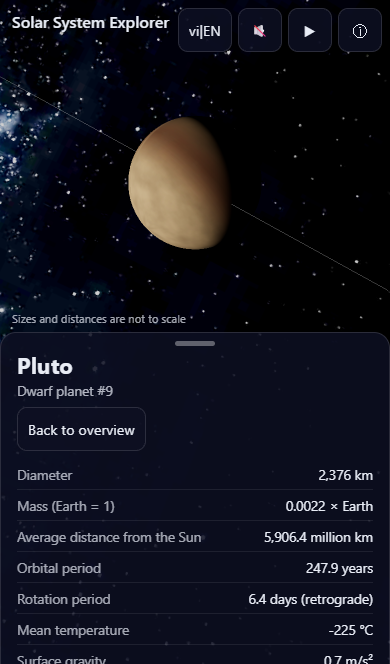
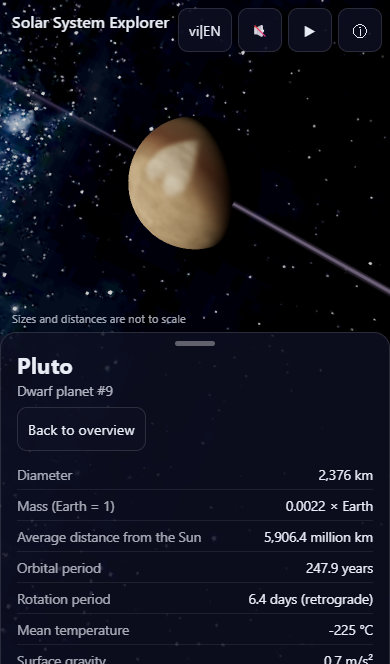
feat(t35): tune orbit ribbon look and record perf

diff --git a/tests/visual/screenshots.spec.ts b/tests/visual/screenshots.spec.ts
@@ -57,6 +57,23 @@ test('screenshots for the visual review', async ({ page }, info) => {
   await boot(page, 'en');
   await page.waitForTimeout(2_000);
   await shot('overview');
+  if (!mobile) {
+    // Low angle: drag the canvas vertically so the orbits are seen almost edge-on.
+    const box = (await page.locator('canvas').first().boundingBox())!;
+    const cx = box.x + box.width / 2;
+    const cy = box.y + box.height / 2;
+    await page.mouse.move(cx, cy);
+    await page.mouse.down();
+    // camera-controls maps a full canvas height to 360 degrees, so about 45 px tilts the view
+    // from 60 to about 82 degrees from the zenith; more would clamp to a straight top or bottom view.
+    await page.mouse.move(cx, cy - 45, { steps: 10 });
+    await page.mouse.up();
+    // Let the damped camera settle (frame-bound on software GL).
+    await page.waitForTimeout(8_000);
+    await shot('overview-low-angle');
+    await page.evaluate(() => (window as unknown as AppWindow).__app.overview());
+    await page.waitForTimeout(5_000);
+  }
   for (const id of ['sun', 'earth', 'saturn', 'jupiter', 'pluto']) {
     await focus(page, id);
     await shot(id);

diff --git a/docs/decisions/0005-performance-results.md b/docs/decisions/0005-performance-results.md
@@ -72,3 +72,14 @@ Mobile-throttled (`medium`) runs: overview 45.1 and 48.0; Saturn 55.0 and 55.3.
 Desktop project, default tiers, same Intel Arc iGPU: overview 47.2 FPS, Saturn 42.2 FPS (still below the 55 target). `qualityEnd` was `medium`: the runtime FPS monitor from Task 27 fired on the real GPU and downgraded `high` to `medium` during the run, which is the designed safety net. The forced `medium` desktop baseline measured about 56 FPS. Conclusion: the `high` tier can miss 55 FPS on a mid laptop iGPU, and the app recovers by itself within seconds; `src/quality/tiers.ts` is left unchanged because no tuning of bloom scale or asteroid count gave a gain beyond the run-to-run spread (about +/-8 FPS). Open items: a re-measure on an idle, plugged-in laptop and on a real phone (see `docs/BACKLOG.md`, "For HUMAN_REVIEW.md (Task 31)").
 
 Notes from the review: the re-measure was on a quieter machine but did not remove the miss (47.2 / 42.2 FPS), so the shortfall is probably real on this iGPU and not only noise. The monitor downgrades when the 3 s average falls under 30 FPS, while the 10 s test averages were 42-47, so the downgrade came from short dips (for example while the camera flies and textures upgrade), not from the sustained average.
+
+## Orbit ribbons (Task 35)
+
+Task 33/34 replaced the thin `LineLoop` orbit guides with nine screen-space ribbons (core plus halo, `ORBIT_STYLE.totalWidthPx` 9 px). The halo costs fill rate, so the desktop project was re-measured once with nothing else running (same Intel Arc iGPU, headed, `npm run test:perf -- --project=desktop`).
+
+| Desktop, default tiers | Overview | Saturn | Quality start / end |
+|---|---|---|---|
+| Before (controller re-measure above) | 47.2 | 42.2 | high / medium |
+| After (orbit ribbons) | 60 | 60 | high / high |
+
+Decision: no change to `totalWidthPx` or to any tier value. The after figures are not lower than the baseline (the threshold was 8 FPS lower), and the FPS monitor did not downgrade the tier. The improvement is most likely the quieter machine (the baseline was noted as noisy, about +/-8 FPS), not the ribbons, so this does not show that the ribbons are free; it shows they do not push `high` under the 55 FPS target on this GPU. The mobile-throttled project was not re-run (the ribbon shader is the same for all tiers and the phone margin was large). `docs/perf-results.json` now holds the new desktop figures; the mobile entry is the older measurement.
